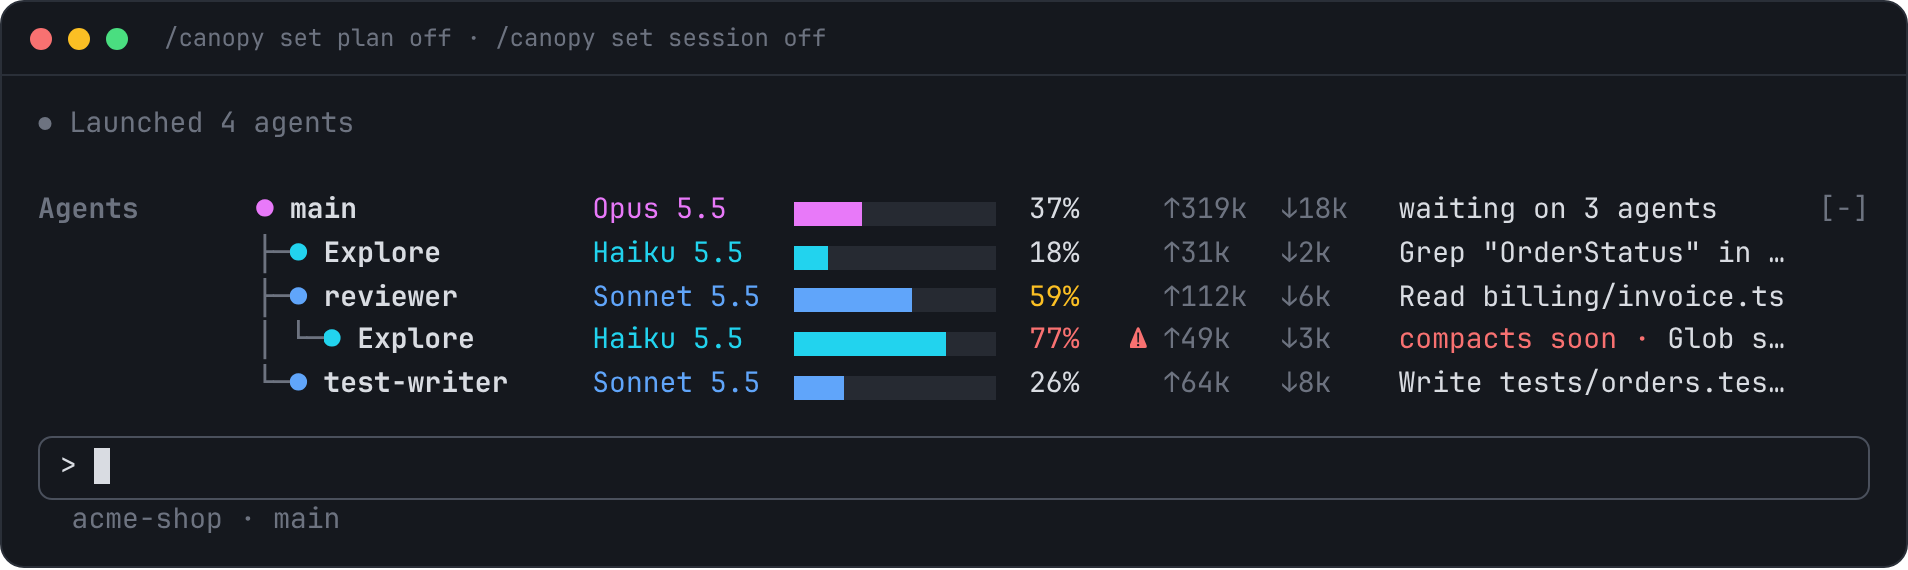
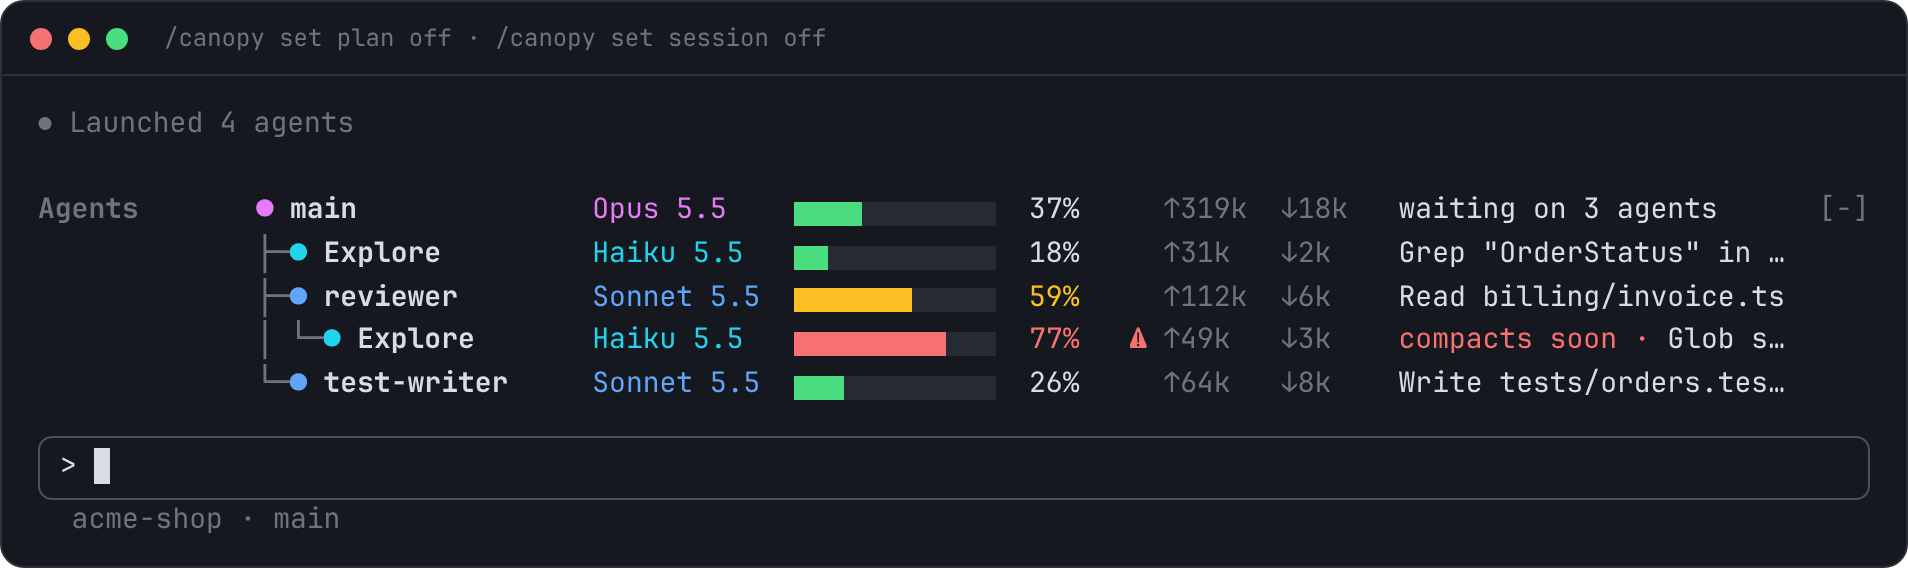
feat: keep context bars as health gauges and split the session bar by model
Agent context bars are green, amber and red again. The session row gains a
whole bar split by the session's tokens, in model colours, as the key to the
plan bars beside its legend.

Claude-Session: https://claude.ai/code/session_0156KuWwmNhjAWYs9SUEByX7

Changed region(s): [[0.402, 0.507, 0.4948, 0.6263], [0.402, 0.3579, 0.4638, 0.4772], [0.402, 0.6561, 0.4638, 0.7158]]

diff --git a/hooks/layout.ts b/hooks/layout.ts
@@ -127,11 +127,10 @@ function keyWidth(v: View, narrow: boolean): number {
 const cellsOf = (pct: number): number => Math.max(pct > 0 ? 1 : 0, Math.min(BAR, Math.round((pct / 100) * BAR)))
 
 /**
- * How full something is, a plan window or a context, its fill in the colours of
- * the models that filled it. A bar says what something is made of; the number
- * beside it says whether it needs a look.
+ * A bar `pct` full in the colours of the models that filled it: a plan
+ * window's split, or the session's whole bar of tokens.
  */
-function gauge(pct: number, parts: [Family, number][]): Line {
+function modelBar(pct: number, parts: [Family, number][]): Line {
   const filled = cellsOf(pct)
   const sum = total(parts)
   // Each model's cells by its share, the cells left over going to the largest remainders.
@@ -142,6 +141,13 @@ function gauge(pct: number, parts: [Family, number][]): Line {
   const fill = sum ? cells.map(p => seg('▆'.repeat(p.whole), { color: FAMILY_COLOUR[p.family] })) : [seg('▆'.repeat(filled), { color: FAMILY_COLOUR.other })]
 
   return [...fill, seg('▆'.repeat(BAR - filled), DIM)].filter(s => s.text)
+}
+
+/** An agent's context: how full it is, in its health's colour, green, then amber, then red. */
+function healthBar(pct: number, health: Health): Line {
+  const filled = cellsOf(pct)
+
+  return [seg('▆'.repeat(filled), { color: HEALTH_COLOUR[health] }), seg('▆'.repeat(BAR - filled), DIM)].filter(s => s.text)
 }
 
 /** The models in the session line's legend, the one legend in the band and the key to the plan bars' colours. */
@@ -225,7 +231,7 @@ function windowCells(w: LimitWindow, v: View, width: number): Cells {
 
   return {
     key: [seg(pad(windowLabel(w.kind), width)), seg(resetKey(w.resetsAt, v.now), DIM)],
-    bar: gauge(w.percentUsed, parts),
+    bar: modelBar(w.percentUsed, parts),
     value: healthSeg(percent(w.percentUsed), health),
     detail: w.percentUsed >= 100 ? [gutter(), LIMITED] : parts.length ? [gutter('≈')] : [],
   }
@@ -262,6 +268,8 @@ function sessionLine(v: View, narrow: boolean): Line {
   const cells: Cells = {
     key: [seg(`${tokens(total(parts))} tok`)],
     model: v.usd === null ? undefined : seg(money(v.usd)),
+    // A whole bar split by the models that used the session, the key to the plan bars' colours beside its legend.
+    bar: parts.length ? modelBar(100, parts) : undefined,
     detail: room => legend(parts, legendFamilies(v), room),
   }
 
@@ -299,7 +307,7 @@ function agentLine(r: Row, v: View, narrow: boolean, heading: string): Line {
   const cells: Cells = {
     key: [seg(r.guides, DIM), seg(`${r.glyph} `, r.isIdle ? DIM : colour), seg(r.name, { bold: true })],
     model: seg(narrow ? model.split(' ')[0]! : model, colour),
-    bar: context ? gauge(context.pct, [[family, 1]]) : [seg('·'.repeat(BAR), DIM)],
+    bar: context ? healthBar(context.pct, context.health) : [seg('·'.repeat(BAR), DIM)],
     value: context ? healthSeg(percent(context.pct), context.health) : seg('—', DIM),
     detail: [
       warning.length ? warnGutter() : gutter(),

diff --git a/tests/layout.test.ts b/tests/layout.test.ts
@@ -410,14 +410,26 @@ describe('bars and numbers', () => {
     loops: { r: { model: 'claude-sonnet-5-5', tokens: 120_000 }, x: { model: 'claude-haiku-5-5', tokens: 160_000 } },
   })
 
-  test("a bar's colours say which models filled it; an agent's context is its model's colour", async () => {
+  test("an agent's context bar is its health: green, then amber, then red", async () => {
     const lines = buildLines(v)
     const fill = (pattern: RegExp) => lines.find(line => pattern.test(text(line)))!.filter(s => s.text.startsWith('▆') && !s.dim).map(s => s.color)
-    expect(fill(/● main/)).toEqual(['#e879f9'])
-    expect(fill(/reviewer/)).toEqual(['#60a5fa'])
-    expect(fill(/Explore/)).toEqual(['#22d3ee'])
-    // The session line has no limit, so no bar.
-    expect(text(lines[0])).not.toMatch(/▆|■{2}/)
+    expect(fill(/● main/)).toEqual(['success'])
+    expect(fill(/reviewer/)).toEqual(['warning'])
+    expect(fill(/Explore/)).toEqual(['error'])
+  })
+
+  test("the session's bar is whole, split by the models that used it: the key to the plan bars' colours", async () => {
+    const session = buildLines(base({ sessionTokens: { opus: 55_000, sonnet: 31_000, haiku: 14_000 }, width: 120 }))[0]!
+    // 12 cells: Opus 6.6, Sonnet 3.7 and Haiku 1.7, the two left over to the larger remainders.
+    expect(session.filter(s => s.text.startsWith('▆')).map(s => [s.text.length, s.dim ? 'dim' : s.color])).toEqual([
+      [6, '#e879f9'],
+      [4, '#60a5fa'],
+      [2, '#22d3ee'],
+    ])
+    // Its legend stays, in line with the plan bars, and it has no percentage: a session has no limit.
+    expect(text(session)).toMatch(/^Session +100k tok +\$1\.12 +▆{12} +■ Opus 55%  ■ Sonnet 31%  ■ Haiku 14%$/)
+    // Before any tokens, no bar.
+    expect(text(buildLines(base({ sessionTokens: {} }))[0])).not.toMatch(/▆/)
   })
 
   test('a number is plain while all is well, and amber or red as it nears its limit', async () => {

diff --git a/docs/DESIGN.md b/docs/DESIGN.md
@@ -75,9 +75,9 @@ Checked against the Claude Code 2.1.309 plugin API.
 
 - **Always shown.** Plan and session usage matter even with no agents running.
 - **Session, Plan, then Agents**, one blank row above the band (counted against `maxRows`). The collapsed line keeps the same order.
-- **Two colour sets, each with one job.** Model colours (hex, chosen to read on light and dark terminals): Fable `#a78bfa`, Opus `#e879f9`, Sonnet `#60a5fa`, Haiku `#22d3ee`, other `#9ca3af`. They say what something is made of: model names, the session's `■` shares, and the fill of every bar. Health uses the theme keys `warning` and `error`, so it follows the user's theme, colour-blind ones included, and says whether something needs a look: percentages, `⚠`, `compacts soon` and `limited`.
-- **A bar's colours say which models filled it; a number's colour says whether it needs a look.** A plan window's bar is split by the models that used it, by the `≈` estimate, each cell to one model by the larger remainder, so a share under about one cell's worth can drop out. An agent's context bar is its model's colour. With no split to go by (`split off`, or nothing logged yet) a plan bar is one fill in the `other` grey. The session line's legend is the key, the only legend in the band. Percentages stay plain while all is well and turn amber, then red: a calm band shows almost no health colour, so whatever needs attention stands out, plan window or context alike. Earlier versions coloured every bar and percentage by health, green included. Every row then carried colour and nothing stood out, and a plan bar and a context bar looked like the same kind of reading. Before that, plan bars were filled in model colours while context bars were filled by health, two meanings in one column; now every bar follows one rule.
-- **Health is tied to the auto-compact point.** Amber from 60% of the way there, red from 90%. Both can be changed with `/canopy set`. The percentage printed is of the full window, to match `/context`. There is no green: healthy is plain.
+- **Two colour sets.** Model colours (hex, chosen to read on light and dark terminals): Fable `#a78bfa`, Opus `#e879f9`, Sonnet `#60a5fa`, Haiku `#22d3ee`, other `#9ca3af`, on model names, the session's `■` shares, and the session and plan bars. Health uses the theme keys `success`, `warning` and `error`, so it follows the user's theme, colour-blind ones included, on agents' context bars, percentages, `⚠`, `compacts soon` and `limited`.
+- **Usage bars are split by model; context bars are health gauges; numbers say whether to look.** The session bar is whole, split by the session's tokens, with its legend beside it as the key. Each plan window's bar fills as far as the window is used, split by the `≈` estimate in the same colours. Cells go to one model each by the larger remainder, so a share under about one cell's worth can drop out. With no split to go by (`split off`, or nothing logged yet) a plan bar is one fill in the `other` grey. An agent's context bar is green, then amber, then red: what matters about a context is how near it is to compacting, not which model filled it, and its model is named beside it. Percentages stay plain while all is well and turn amber, then red, so a plan window or agent nearing its limit stands out. History: plan bars were first filled in model colours beside health-coloured context bars, and then every bar and percentage went to health, green included, which coloured every row so nothing stood out. A model-split strip on the session line was dropped once as it looked like a gauge; it is back as the key now that the plan bars use the same colours.
+- **Health is tied to the auto-compact point.** Amber from 60% of the way there, red from 90%. Both can be changed with `/canopy set`. The percentage printed is of the full window, to match `/context`. A healthy percentage is plain; a healthy context bar is green.
 - **Plan percentages** use the same 60% and 90% points against the window's 100%.
 - **Any figure above nothing fills a cell** of its bar, so a month 2% used still shows.
 - **Finished agents drop off** at once. Their running children move up to the nearest live ancestor.

diff --git a/README.md b/README.md
@@ -30,8 +30,9 @@ Your session, plan limits and every running agent, in one band above the Claude 
 
 Two rules keep it quick to read:
 
-- **A bar's colours say which models filled it.** A plan window's bar is split by the models that used it, and an agent's context bar is its model's colour: **Fable** violet, **Opus** magenta, **Sonnet** blue, **Haiku** cyan. The session line's `■` shares are the key.
-- **A number's colour says whether it needs a look.** Percentages stay plain while all is well, and turn **amber**, then **red**, as a plan window or an agent's context nears its limit. A calm band has almost no warning colour, so whatever needs you stands out.
+- **Session and plan bars show which models used them**, in model colours: **Fable** violet, **Opus** magenta, **Sonnet** blue, **Haiku** cyan. The session bar is whole, split by the session's tokens, and its `■` shares are the key. Each plan window's bar fills as far as the window is used, split the same way.
+- **Agent bars show health**: an agent's context bar is green, then amber, then red as it nears compacting.
+- **Percentages show whether something needs a look.** They stay plain while all is well, and turn **amber**, then **red**, as a plan window or an agent's context nears its limit.
 
 ## Install
 
@@ -133,7 +134,7 @@ Each row shows:
 │ │                 │           │             │       │             └ shells it has left running in the background
 │ │                 │           │             │       └ tokens sent ↑ and received ↓
 │ │                 │           │             └ context used, of the full window: amber, then red, as it nears compacting
-│ │                 │           └ context bar, in the model's colour
+│ │                 │           └ context bar: green, then amber, then red
 │ │                 └ model, in its colour
 │ └ status: ● running  ◐ waiting  ◌ starting  ○ idle
 └ tree guides showing who started whom
@@ -143,11 +144,11 @@ The tokens are counted the same way as the session line, so all the agents add u
 
 Context colours are tied to the point where Claude Code **auto-compacts** the conversation, not to the raw window size:
 
-| Percentage | When | What to do |
-| --- | --- | --- |
-| Plain | under 60% of the way to auto-compact | nothing |
-| 🟨 Amber | 60% to 89% of the way | long contexts start to lose quality from here |
-| 🟥 Red, `⚠ compacts soon` | 90% of the way or more | consider `/compact`, or let it happen |
+| Bar | Percentage | When | What to do |
+| --- | --- | --- | --- |
+| 🟩 Green | plain | under 60% of the way to auto-compact | nothing |
+| 🟨 Amber | amber | 60% to 89% of the way | long contexts start to lose quality from here |
+| 🟥 Red | red, `⚠ compacts soon` | 90% of the way or more | consider `/compact`, or let it happen |
 
 These are the same 60% and 90% points as the plan line, and [`/canopy set`](#settings) moves them for both.
 
